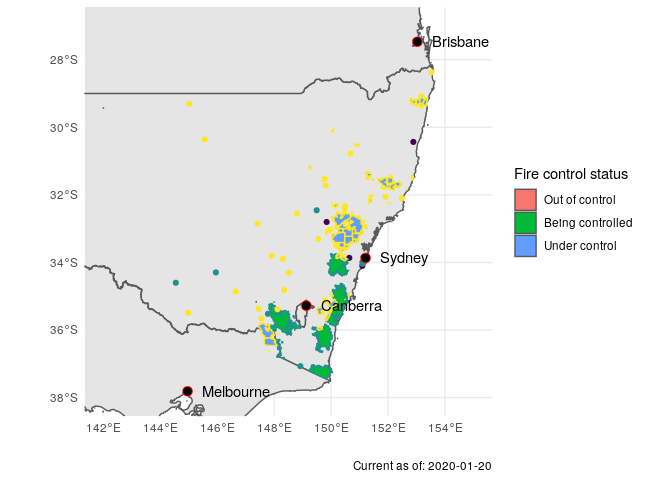
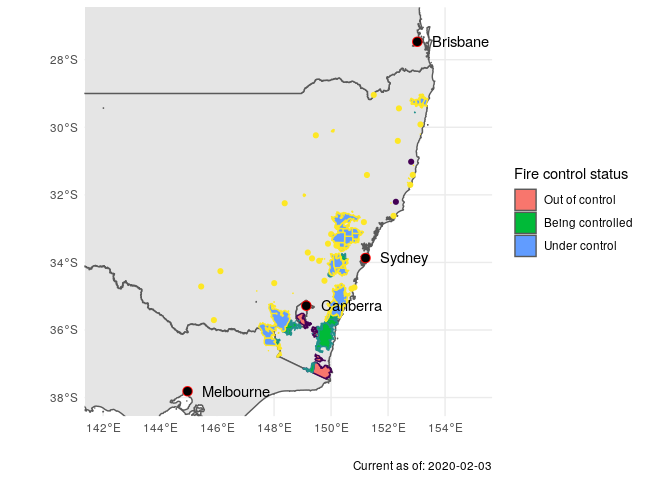
parse filename on unzip

diff --git a/sf/geospatial.md b/sf/geospatial.md
@@ -51,14 +51,14 @@ stop` to halt the Docker
 library(tidyverse)
 ```
 
-    ## ── Attaching packages ──────────────────────────────────────────────────────────────────── tidyverse 1.3.0 ──
+    ## ── Attaching packages ─────────────────────────────────── tidyverse 1.3.0 ──
 
     ## ✓ ggplot2 3.2.1     ✓ purrr   0.3.3
     ## ✓ tibble  2.1.3     ✓ dplyr   0.8.3
-    ## ✓ tidyr   1.0.0     ✓ stringr 1.4.0
+    ## ✓ tidyr   1.0.2     ✓ stringr 1.4.0
     ## ✓ readr   1.3.1     ✓ forcats 0.4.0
 
-    ## ── Conflicts ─────────────────────────────────────────────────────────────────────── tidyverse_conflicts() ──
+    ## ── Conflicts ────────────────────────────────────── tidyverse_conflicts() ──
     ## x dplyr::filter() masks stats::filter()
     ## x dplyr::lag()    masks stats::lag()
 
@@ -96,10 +96,10 @@ df_aus_fires <- sf::st_read(url)
 ```
 
     ## Reading layer `majorIncidents' from data source `http://www.rfs.nsw.gov.au/feeds/majorIncidents.json' using driver `GeoJSON'
-    ## Simple feature collection with 89 features and 7 fields
+    ## Simple feature collection with 77 features and 7 fields
     ## geometry type:  GEOMETRY
     ## dimension:      XY
-    ## bbox:           xmin: 144.5517 ymin: -37.4437 xmax: 153.5226 ymax: -28.37562
+    ## bbox:           xmin: 145.4417 ymin: -37.45081 xmax: 153.3915 ymax: -29.01782
     ## epsg (SRID):    4326
     ## proj4string:    +proj=longlat +datum=WGS84 +no_defs
 
@@ -108,12 +108,19 @@ df_aus_fires <- sf::st_read(url)
 url_aus_geo <- "http://data.daff.gov.au/data/warehouse/nsaasr9nnd_022/nsaasr9nnd_02211a04es_geo___.zip"
 curl::curl_download(url_aus_geo, destfile = "../data/aus.shp.zip")
 unzip("../data/aus.shp.zip", exdir = "../data")
+# Process the filename
+names_aus_geo <- unzip("../data/aus.shp.zip", list = TRUE)
+main_aus_geo <-
+  names_aus_geo %>%
+  pull(Name) %>%
+  .[[1]] %>%
+  str_remove(., "\\.\\w+$")
 ```
 
 Load boundary data.
 
 ``` r
-df_boundaries <- sf::read_sf("../data", "aust_cd66states")
+df_boundaries <- sf::read_sf("../data", main_aus_geo)
 ```
 
 ## Wrangle
@@ -126,14 +133,14 @@ this to process the descriptions for `control` information.
 The fire data come with prose descriptions of fires:
 
 ``` r
-df_aus_fires %>% 
-  head(2) %>% 
+df_aus_fires %>%
+  head(2) %>%
   pull(description)
 ```
 
-    ## [1] ALERT LEVEL: Advice <br />LOCATION: bugtown road <br />COUNCIL AREA: Snowy Monaro <br />STATUS: Being controlled <br />TYPE: Bush Fire <br />FIRE: Yes <br />SIZE: 93650 ha <br />MAJOR FIRE UPDATE AS AT 20 Jan 2020 8:10AM: <a href='http://www.rfs.nsw.gov.au/fire-information/major-fire-updates/mfu?id=8891' target='_blank'> More information</a><br />RESPONSIBLE AGENCY: Rural Fire Service <br />UPDATED: 20 Jan 2020 15:59                         
-    ## [2] ALERT LEVEL: Advice <br />LOCATION: Badja Forest Rd, Countegany, NSW 2630 <br />COUNCIL AREA: Eurobodalla <br />STATUS: Being controlled <br />TYPE: Bush Fire <br />FIRE: Yes <br />SIZE: 242442 ha <br />MAJOR FIRE UPDATE AS AT 20 Jan 2020 7:30PM: <a href='http://www.rfs.nsw.gov.au/fire-information/major-fire-updates/mfu?id=8525' target='_blank'> More information</a><br />RESPONSIBLE AGENCY: Rural Fire Service <br />UPDATED: 20 Jan 2020 15:17
-    ## 89 Levels: ALERT LEVEL: Advice <br />LOCATION: -31.332  151.292 <br />COUNCIL AREA: Tamworth <br />STATUS: Under control <br />TYPE: Bush Fire <br />FIRE: Yes <br />SIZE: 703 ha <br />RESPONSIBLE AGENCY: Rural Fire Service <br />UPDATED: 20 Jan 2020 11:16 ...
+    ## [1] ALERT LEVEL: Advice <br />LOCATION: 2795 Abercrombie Rd <br />COUNCIL AREA: Oberon <br />STATUS: Under control <br />TYPE: Grass Fire <br />FIRE: Yes <br />SIZE: 10 ha <br />RESPONSIBLE AGENCY: Rural Fire Service <br />UPDATED: 3 Feb 2020 09:58                                                                                                                                                                        
+    ## [2] ALERT LEVEL: Advice <br />LOCATION: Yaouk <br />COUNCIL AREA: Snowy Monaro <br />STATUS: Being controlled <br />TYPE: Bush Fire <br />FIRE: Yes <br />SIZE: 98036 ha <br />MAJOR FIRE UPDATE AS AT 3 Feb 2020 10:36PM: <a href='http://www.rfs.nsw.gov.au/fire-information/major-fire-updates/mfu?id=8891' target='_blank'> More information</a><br />RESPONSIBLE AGENCY: Rural Fire Service <br />UPDATED: 3 Feb 2020 16:13
+    ## 77 Levels: ALERT LEVEL: Advice <br />LOCATION: -32 29.43 150 44.27 <br />COUNCIL AREA: Muswellbrook <br />STATUS: Under control <br />TYPE: Bush Fire <br />FIRE: Yes <br />SIZE: 203 ha <br />RESPONSIBLE AGENCY: NSW National Parks and Wildlife Service <br />UPDATED: 3 Feb 2020 15:47 ...
 
 This is human-readable, but not machine-readable. We can extract the
 `STATUS` information with a regular expression:
@@ -152,17 +159,17 @@ df_aus_control <-
 df_aus_control %>% glimpse
 ```
 
-    ## Observations: 89
+    ## Observations: 77
     ## Variables: 9
-    ## $ title            <fct> "Adaminaby Complex ", "Badja Forest Rd, Countegany",…
-    ## $ link             <fct> http://www.rfs.nsw.gov.au/fire-information/major-fir…
+    ## $ title            <fct> "Abercrombie Road", "Adaminaby Complex ", "Albert St…
+    ## $ link             <fct> http://www.rfs.nsw.gov.au/fire-information/fires-nea…
     ## $ category         <fct> Advice, Advice, Advice, Advice, Advice, Advice, Advi…
-    ## $ guid             <fct> https://incidents.rfs.nsw.gov.au/api/v1/incidents/36…
+    ## $ guid             <fct> https://incidents.rfs.nsw.gov.au/api/v1/incidents/37…
     ## $ guid_isPermaLink <fct> true, true, true, true, true, true, true, true, true…
-    ## $ pubDate          <dttm> 2020-01-20 04:59:00, 2020-01-20 04:17:00, 2020-01-2…
-    ## $ description      <fct> "ALERT LEVEL: Advice <br />LOCATION: bugtown road <b…
+    ## $ pubDate          <dttm> 2020-02-02 22:58:00, 2020-02-03 05:13:00, 2020-02-0…
+    ## $ description      <fct> "ALERT LEVEL: Advice <br />LOCATION: 2795 Abercrombi…
     ## $ geometry         <GEOMETRY [°]> GEOMETRYCOLLECTION (POINT (..., GEOMETRYCOL…
-    ## $ control          <ord> Being controlled, Being controlled, Being controlled…
+    ## $ control          <ord> Under control, Being controlled, Under control, Bein…
 
 Check the levels of the `control` data:
 
@@ -170,7 +177,7 @@ Check the levels of the `control` data:
 df_aus_control %>% pull(control) %>% unique
 ```
 
-    ## [1] Being controlled Under control    Out of control  
+    ## [1] Under control    Being controlled Out of control  
     ## Levels: Out of control < Being controlled < Under control
 
 ## Visualize
@@ -239,3 +246,34 @@ ggplot() +
 
 The fires are concentrated around Canberra and Sydney. Of course, smoke
 is probably affecting nearby cities as well.
+
+### Filter
+
+<!-- --------------------------- -->
+
+Filtering by coordinates is a little tricky. Below I use `st_within`,
+which by default returns a sparse vector. We need to disable that
+feature to use within a Tidyverse pipeline.
+
+``` r
+bound <- st_polygon(
+  list(rbind(
+    c(+142, -38),
+    c(+142, -27),
+    c(+155, -27),
+    c(+155, -38),
+    c(+142, -38)
+  ))
+)
+
+sf_cities_latlon %>%
+  filter(st_within(., bound, sparse = FALSE)) %>%
+  glimpse
+```
+
+    ## although coordinates are longitude/latitude, st_within assumes that they are planar
+
+    ## Observations: 4
+    ## Variables: 2
+    ## $ city     <chr> "Brisbane", "Sydney", "Canberra", "Melbourne"
+    ## $ geometry <POINT [°]> POINT (153.0251 -27.4698), POINT (151.2093 -33.8688), …
